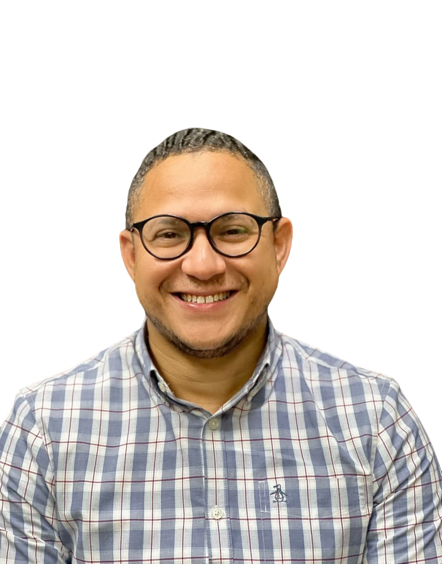
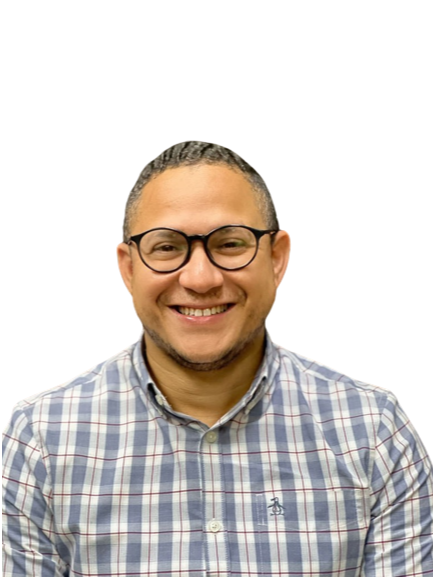
Adding changes

Changed region(s): [[0.0, 0.211, 1.0, 1.0]]

diff --git a/src/api/API.js b/src/api/API.js
@@ -578,7 +578,7 @@ const ABirthday = [
   },
   {
     nombre: "Yael Segura",
-    birthday: "07-11",
+    birthday: "16-10",
     img: "/YaelSegura.png",
     mail: "mailto:yael_segura@claro.com.do?subject=¡Feliz Cumpleaños!&body=¡Felicidades en tu día!",
     movil: "8293827000",
